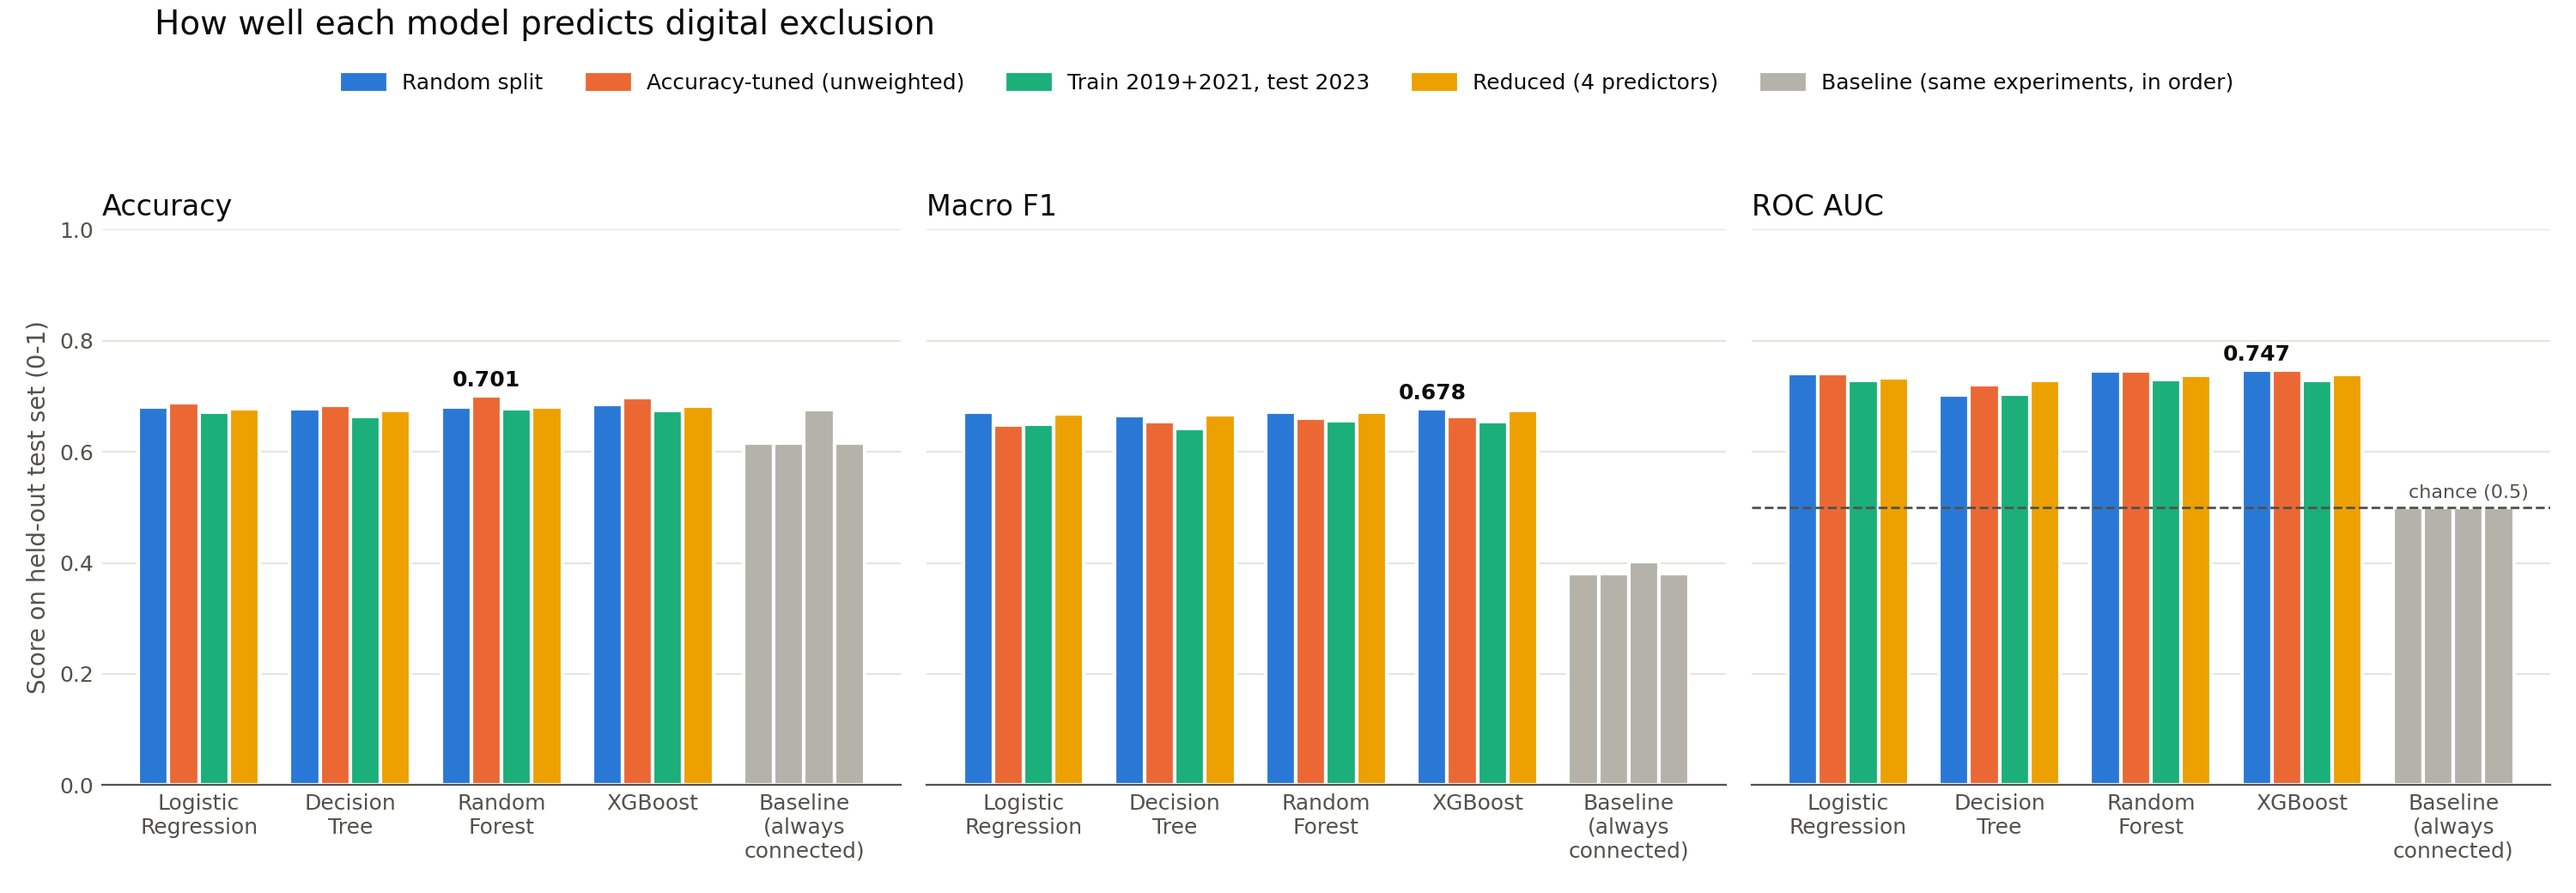
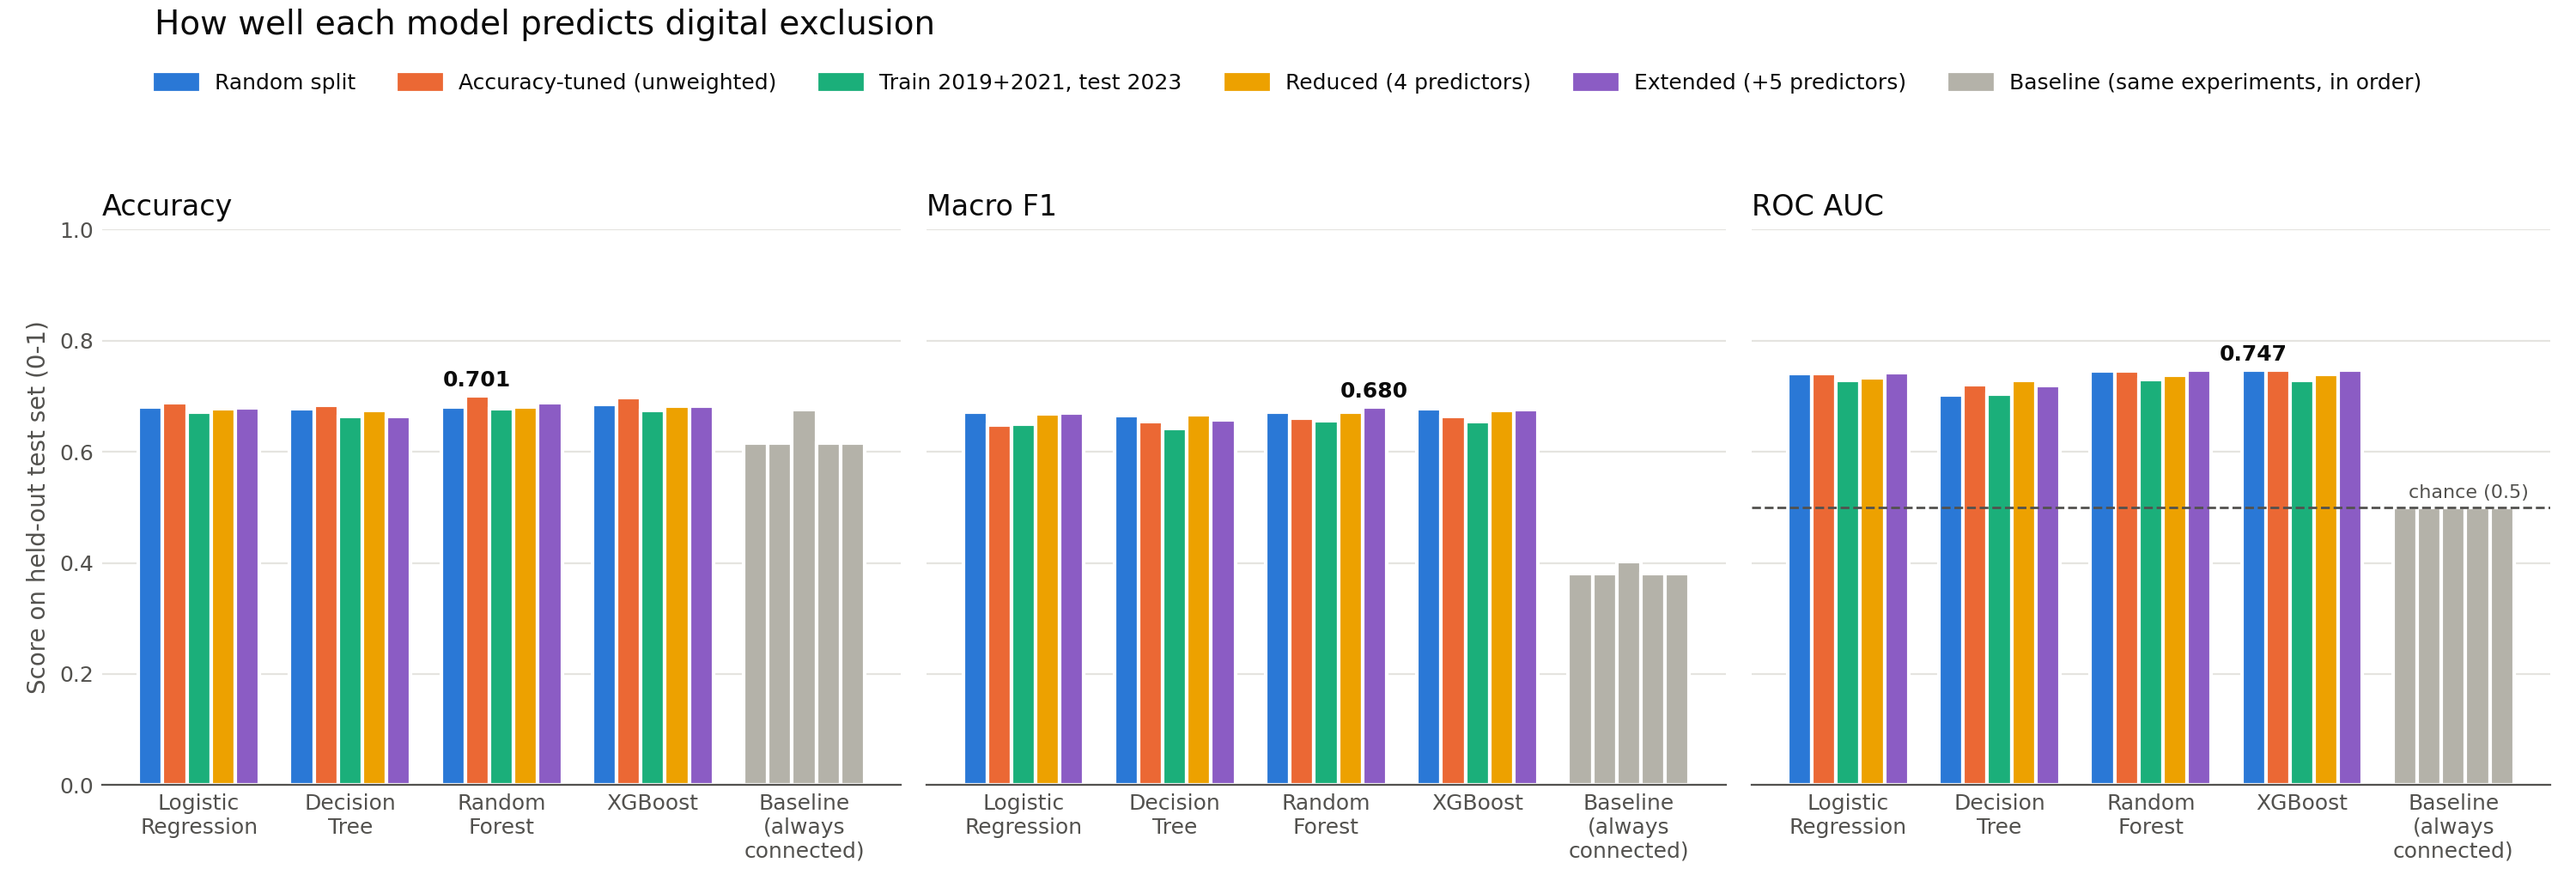
projected final commit

diff --git a/main.py b/main.py
@@ -2,7 +2,8 @@
 # The purpose of this file is to run all phases of the experiment
 # including data preparation, model training, and model testing. It predicts digital exclusion
 # (no internet use at any location) among adults 65+ with a disability, compares four models,
-# checks performance across survey years, ranks feature importance, and tests a reduced feature set.
+# checks performance across survey years, ranks feature importance, tests a reduced feature set, and tests an
+# extended feature set with five extra household/geography predictors.
 
 from pathlib import Path
 
@@ -40,6 +41,11 @@ DISABILITY_FEATURES = ["DIS_HEARING", "DIS_VISION", "DIS_COGNITIVE", "DIS_PHYSIC
 # the ten predictors from the proposal: nine demographic/socioeconomic variables plus disability type
 FEATURES = NUMERIC_FEATURES + CATEGORICAL_FEATURES + DISABILITY_FEATURES
 
+# extra non-behavioral predictors, used only in the separate "Extended" experiment
+EXTENDED_NUMERIC_FEATURES = ["HRNUMHOU", "PRNMCHLD"]  # household size, own children under 18
+EXTENDED_CATEGORICAL_FEATURES = ["GTMETSTA", "PEAFEVER", "PRCITSHP"]  # metro status, veteran status, citizenship
+EXTENDED_FEATURES = EXTENDED_NUMERIC_FEATURES + EXTENDED_CATEGORICAL_FEATURES
+
 # binary digital exclusion outcome (1 = does not use the internet at any location), built in dataPrep.py
 TARGET = dataPrep.TARGET_COLUMN
 
@@ -63,6 +69,7 @@ RANDOM_EXPERIMENT = "Random split"
 TEMPORAL_EXPERIMENT = f"Train {TEMPORAL_TRAIN_YEARS[0]}+{TEMPORAL_TRAIN_YEARS[1]}, test {TEMPORAL_TEST_YEAR}"
 REDUCED_EXPERIMENT = f"Reduced ({REDUCED_FEATURE_COUNT} predictors)"
 ACCURACY_EXPERIMENT = "Accuracy-tuned (unweighted)"
+EXTENDED_EXPERIMENT = f"Extended (+{len(EXTENDED_FEATURES)} predictors)"
 
 # Hypothesis 1: test accuracy each model is expected to reach with the ten predictors
 HYPOTHESIS_1_TARGETS = {
@@ -80,9 +87,9 @@ SCORING = "f1_macro"
 # Preprocessing: fit on training folds only because it lives inside each model's Pipeline
 def build_preprocessor(features=FEATURES):
     return ColumnTransformer([
-        ("num", StandardScaler(), [f for f in NUMERIC_FEATURES if f in features]),
+        ("num", StandardScaler(), [f for f in NUMERIC_FEATURES + EXTENDED_NUMERIC_FEATURES if f in features]),
         ("cat", OneHotEncoder(handle_unknown="ignore", sparse_output=False),
-         [f for f in CATEGORICAL_FEATURES if f in features]),
+         [f for f in CATEGORICAL_FEATURES + EXTENDED_CATEGORICAL_FEATURES if f in features]),
         ("dis", "passthrough", [f for f in DISABILITY_FEATURES if f in features]),
     ])
 
@@ -375,6 +382,16 @@ def main():
     r_results, r_best = test_models(r_models, r_x_test, r_y_test)
     summary.append(summarize(REDUCED_EXPERIMENT, r_results, r_best))
     tables.append(results_table(r_results, REDUCED_EXPERIMENT))
+
+    # Step 6b: extended model, the ten predictors plus five household/geography predictors
+    # (same seed and stratified split as the random experiment, so both are tested on the same people)
+    print(f"\n===== Experiment: extended model, ten predictors + {EXTENDED_FEATURES} =====")
+    e_models, _, e_x_test, _, e_y_test = train_models(df, features=FEATURES + EXTENDED_FEATURES)
+    e_results, e_best = test_models(e_models, e_x_test, e_y_test)
+    summary.append(summarize(EXTENDED_EXPERIMENT, e_results, e_best))
+    tables.append(results_table(e_results, EXTENDED_EXPERIMENT))
+    print(f"\nHypothesis 1, {EXTENDED_EXPERIMENT}:")
+    print(hypothesis_1_check(e_results).to_string(index=False))
 
     summary = pd.DataFrame(summary)
     print("\n===== Summary: best model per experiment =====")

diff --git a/test_main.py b/test_main.py
@@ -28,6 +28,11 @@ def make_df(n=200, seed=0):
         "HETENURE": rng.integers(1, 4, n),
         "GESTFIPS": rng.choice([1, 6, 36, 48], n),
         "PEMLR": rng.integers(1, 8, n),
+        "HRNUMHOU": rng.integers(1, 6, n),
+        "PRNMCHLD": rng.integers(0, 2, n),
+        "GTMETSTA": rng.integers(1, 4, n),
+        "PEAFEVER": rng.integers(1, 3, n),
+        "PRCITSHP": rng.integers(1, 6, n),
     })
     for col in main.DISABILITY_FEATURES:
         df[col] = rng.integers(0, 2, n)
@@ -69,6 +74,23 @@ class TestTrainModels(unittest.TestCase):
         x["GESTFIPS"] = 99  # state code never seen during training
         for model in self.models.values():
             model.predict(x)
+
+    def test_extended_features_stay_out_of_the_ten_predictors(self):
+        self.assertEqual(len(main.EXTENDED_FEATURES), 5)
+        self.assertFalse(set(main.EXTENDED_FEATURES) & set(main.FEATURES))
+
+
+class TestExtendedModel(unittest.TestCase):
+
+    def test_trains_on_ten_predictors_plus_extended(self):
+        features = main.FEATURES + main.EXTENDED_FEATURES
+        with mock.patch("builtins.print"):
+            models, x_train, x_test, _, _ = main.train_models(make_df(), cv=2, features=features)
+        self.assertEqual(list(x_train.columns), features)
+        prep = models["Logistic Regression"].named_steps["prep"]
+        self.assertEqual(prep.transformers_[0][2], main.NUMERIC_FEATURES + main.EXTENDED_NUMERIC_FEATURES)
+        self.assertEqual(prep.transformers_[1][2], main.CATEGORICAL_FEATURES + main.EXTENDED_CATEGORICAL_FEATURES)
+        self.assertEqual(len(models["XGBoost"].predict(x_test)), len(x_test))
 
 
 class TestTemporalSplit(unittest.TestCase):
@@ -200,10 +222,10 @@ class TestMain(unittest.TestCase):
         prep.assert_not_called()
         self.assertEqual(summary["Experiment"].tolist(),
                          [main.RANDOM_EXPERIMENT, main.ACCURACY_EXPERIMENT, main.TEMPORAL_EXPERIMENT,
-                          main.REDUCED_EXPERIMENT])
+                          main.REDUCED_EXPERIMENT, main.EXTENDED_EXPERIMENT])
 
         table = pd.read_csv(main.RESULTS_FILE)
-        self.assertEqual(len(table), 20)  # 4 experiments x (4 models + baseline)
+        self.assertEqual(len(table), 25)  # 5 experiments x (4 models + baseline)
         self.assertTrue(os.path.getsize("results/model_performance.png") > 0)
         self.assertTrue(os.path.getsize("results/confusion_matrix.png") > 0)
 

diff --git a/plot_results.py b/plot_results.py
@@ -22,8 +22,8 @@ CONFUSION_CHART = "confusion_chart"
 BASELINE_PREFIX = "Baseline"
 METRICS = ["Accuracy", "Macro F1", "ROC AUC"]
 
-# colorblind-safe categorical order (validated for up to four series); one color per experiment
-EXPERIMENT_COLORS = ["#2a78d6", "#eb6834", "#1baf7a", "#eda100"]
+# categorical order, one color per experiment (first four colorblind-safe; fifth is a distinct purple)
+EXPERIMENT_COLORS = ["#2a78d6", "#eb6834", "#1baf7a", "#eda100", "#8b5cc4"]
 BASELINE_COLOR = "#b4b2a9"
 SURFACE = "#ffffff"
 TEXT_PRIMARY = "#0b0b0b"
@@ -160,8 +160,8 @@ def plot_confusion(df, path):
 
     fig.suptitle("Predicted vs actual digital exclusion, best model (macro F1) per experiment",
                  fontsize=13, color=TEXT_PRIMARY)
-    fig.tight_layout()
-    fig.savefig(path, dpi=200, facecolor=SURFACE)
+    fig.tight_layout(rect=(0, 0, 1, 1 - 0.35 / fig.get_figheight()))  # keep room for the suptitle
+    fig.savefig(path, dpi=200, facecolor=SURFACE, bbox_inches="tight", pad_inches=0.2)
     plt.close(fig)
 
 

diff --git a/test_plot_results.py b/test_plot_results.py
@@ -62,6 +62,14 @@ class TestPlotResults(unittest.TestCase):
             paths = plot_results.main()
         self.assertTrue(all(os.path.exists(p) for p in paths.values()))
 
+    def test_works_with_five_experiments(self):
+        experiments = ("Random split", "Accuracy-tuned (unweighted)", "Train 2019+2021, test 2023",
+                       "Reduced (4 predictors)", "Extended (+5 predictors)")
+        make_results(experiments=experiments).to_csv(plot_results.RESULTS_FILE, index=False)
+        with mock.patch("builtins.print"):
+            paths = plot_results.main()
+        self.assertTrue(all(os.path.exists(p) for p in paths.values()))
+
     def test_missing_results_file_returns_none(self):
         with mock.patch("builtins.print") as mock_print:
             self.assertIsNone(plot_results.main())

diff --git a/test_dataPrep.py b/test_dataPrep.py
@@ -235,6 +235,12 @@ class TestFeatureSelection(TempDirTestCase):
              "HETENURE", "GESTFIPS", "PEMLR", "DISTYPE", "DIG_EXCLUDED"} | INDICATOR_COLUMNS,
         )
 
+    def test_keeps_extended_predictor_columns(self):
+        extended = {"HRNUMHOU": 2, "PRNMCHLD": 0, "GTMETSTA": 1, "PEAFEVER": 2, "PRCITSHP": 1}
+        result = dataPrep.feature_selection(pd.DataFrame([make_row(**extended)]))
+        for col, value in extended.items():
+            self.assertEqual(result[col].tolist(), [value])
+
     def test_keeps_year_and_target_but_drops_internet_columns(self):
         df = pd.DataFrame([make_row(HRYEAR4=2023, PEINHOME=1, HEINHOME=1, PEDESKTP=1)])
         result = dataPrep.feature_selection(df)

diff --git a/dataPrep.py b/dataPrep.py
@@ -105,6 +105,11 @@ def feature_selection(df):
         "GESTFIPS",  # state
         "PEMLR",     # employment status
         "DISTYPE",
+        "HRNUMHOU",  # household size        } extended predictors: only used in the separate
+        "PRNMCHLD",  # own children under 18 } "Extended" experiment, so the original ten
+        "GTMETSTA",  # metropolitan status   } stay the main result
+        "PEAFEVER",  # veteran status        }
+        "PRCITSHP",  # citizenship           }
         "HRYEAR4",   # survey year: not a predictor, used for the train-on-earlier/test-on-2023 check
         TARGET_COLUMN,
     ] + indicator_columns

diff --git a/README.md b/README.md
@@ -37,7 +37,7 @@ python -m unittest test_dataPrep -v   # runs the unit tests
 ## Running main.py
 Requires `matplotlib` for the charts (`pip install matplotlib`).
 ```
-python main.py                        # predicts digital exclusion: random split, 2019+2021 -> 2023 check, feature importance, reduced model
+python main.py                        # predicts digital exclusion: random split, 2019+2021 -> 2023 check, feature importance, reduced model, extended model
 python -m unittest test_main -v       # runs the unit tests
 ```
 `main.py` writes `results/model_performance.csv` (accuracy, macro F1, ROC AUC and predicted-vs-actual
